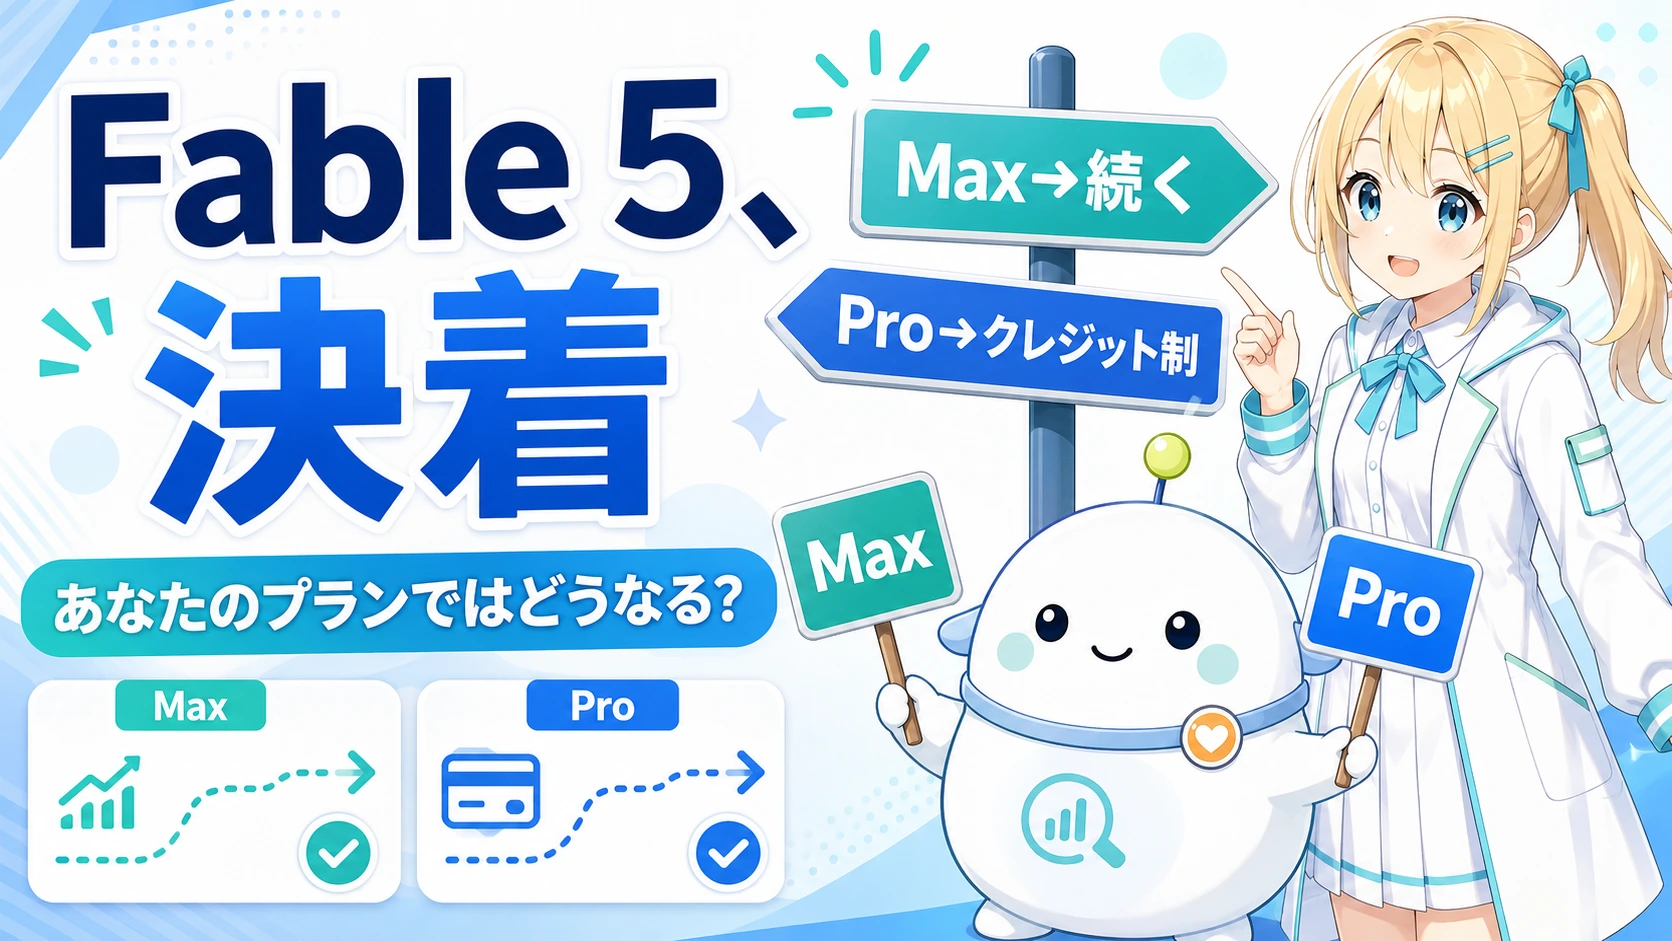
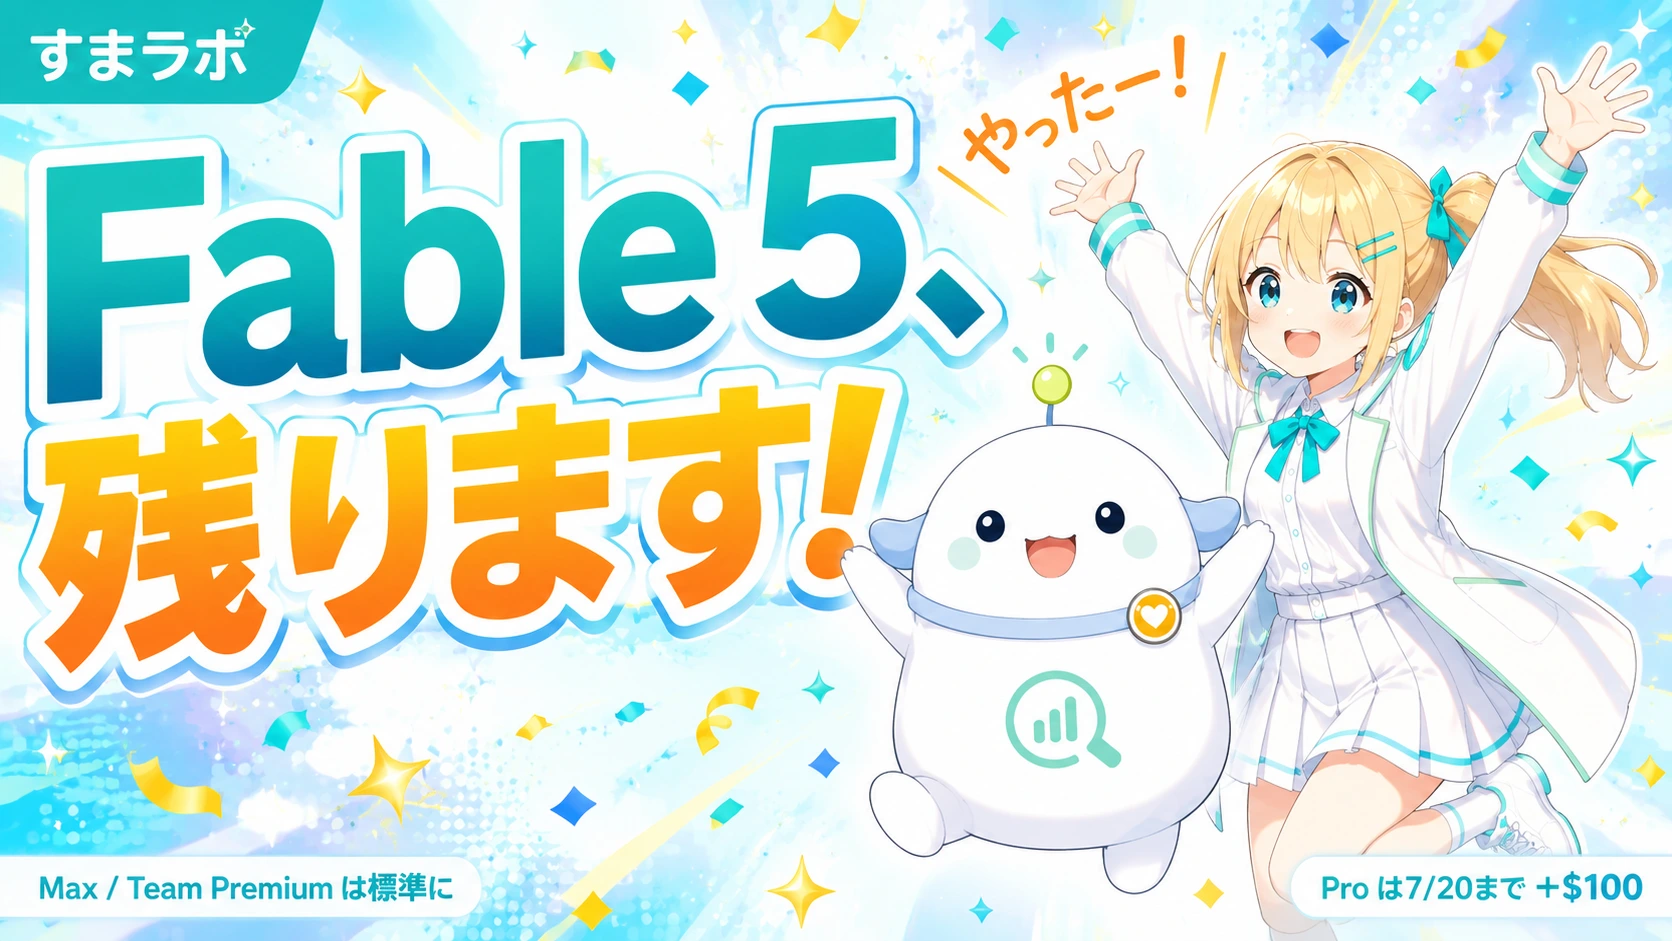
feat(thumbnail+rule): Fable決着記事サムネを喜び爆発型に差し替え＋朗報トーンを恒久ルール化
- サムネ差し替え: 「Fable 5、残ります!」を主役コピーに、ひまり万歳・らぼまる跳ねて喜ぶ喜び爆発型（紙吹雪・キラキラ）。矢印/分岐図を排し感情を主役に。補足は隅に最小限。thumbnailAlt更新
- character-sheet.md: 感情トーン表を4分類化し「朗報・喜び爆発」型を新設（継続決定/無料化/復活/値下げ等は万歳・ジャンプで喜びきる／控えめ笑顔・案内役スタンス禁止）。サムネ主役コピーは「読者の感情の言葉」を第一候補・分岐/矢印はサムネで使わない、を明文化
- factcheck項目12（slide/independent両プロンプト）: 朗報系サムネが案内板・分岐図・無表情説明構図なら warning（改善指摘・needs_revisionにはしない）
- image-workshop: 旧chat 6a5c0f57のセッション級content-policyクールダウンを新chat 6a5c465eへの案A再シードで解消（seed=1）

diff --git a/assets/characters/character-sheet.md b/assets/characters/character-sheet.md
@@ -60,13 +60,18 @@
 
 ### 記事の感情トーンを表情・仕草に反映する ★恒久方針（2026-07-14）
 
-サムネの表情・仕草は、**記事の感情トーン**に合わせる。明るい絵柄を全記事に一律で使わない（終了・障害・値上げの記事で満面の笑みになる事故を防ぐ）。**記事テーマを次の 3 分類のどれかに判定し、対応する表情・仕草をプロンプトに明記する。**
+サムネの表情・仕草は、**記事の感情トーン**に合わせる。明るい絵柄を全記事に一律で使わない（終了・障害・値上げの記事で満面の笑みになる事故を防ぐ）。**記事テーマを次の 4 分類のどれかに判定し、対応する表情・仕草をプロンプトに明記する。**
 
 | 感情トーン | 該当する記事テーマ | ひまりの第一表情 | 仕草・構図 |
 |---|---|---|---|
-| **ポジティブ** | 新機能・復活・延長・無料化・便利になった話 | 明るい・うれしい・ワクワク（従来どおり） | 使ってみる・喜ぶ・指さして紹介する |
+| **朗報・喜び爆発** ★2026-07-19新設 | **読者が確実に得する確定ニュース**：継続決定・存続決定（「残る」「使い続けられる」）・無料化・復活・値下げ・大幅増量・待望の解禁 | **「喜び爆発」を第一表情にする**（満面の笑み＋**両手を上げて万歳／ジャンプ／ガッツポーズ**）。読者の「やったー!」をキャラが代弁して**喜びきる** | **ひまり＝万歳・ジャンプで大喜び／らぼまるも跳ねて一緒に喜ぶ**（案内役に徹しない）。2人で読者の歓喜を体現する。補足情報は隅に小さく、主役は感情 |
+| **ポジティブ（通常）** | 新機能・便利になった話・小さな改善（読者が得する度合いが中〜小） | 明るい・うれしい・ワクワク（従来どおり） | 使ってみる・喜ぶ・指さして紹介する |
 | **ニュートラル** | 解説・比較・基礎知識・仕組みの整理 | 落ち着き・興味・真面目（笑顔は控えめでよい） | 見比べる・整理する・考える |
 | **注意・速報／惜別** | 終了・サービス終了・障害・不具合・値上げ・リコール・脆弱性 | **「驚き」を第一表情にする**（画面いっぱいの「えっ!?」＝目を見開く・のけぞる・PC/スマホを二度見）。読者がニュースを知った瞬間の顔を代弁する | **ひまり＝驚き／らぼまる＝冷静な案内役の「驚き×安心」コントラストを基本構図に**。らぼまるは「◯/◯まで」カレンダーと対処チェックリストを掲げて落ち着いて案内する |
+
+- **朗報・喜び爆発系の第一表情は「喜び爆発」**（2026-07-19新設）。読者にとって明確に嬉しい確定ニュース（残る・使い続けられる・無料化・復活・値下げ）では、**キャラが読者の代わりに全力で喜ぶ**。ひまりは**両手を上げて万歳・ジャンプ・ガッツポーズ＋満面の笑み**、らぼまるも**跳ねて一緒に喜ぶ**。**控えめな笑顔・指さし案内・「整理してあげる」案内役スタンスは禁止**（従来ポジ系が案内図的で弱くなりがちだったのを是正）。「読者が得する確定」であるほど感情の強度を上げる。
+  - **朗報系のコピー原則**：サムネの主役コピーは「情報の要約」ではなく**「読者の感情の言葉」を第一候補にする**（例:「残ります!」「使い続けられる!」「間に合う!」「急いで」「無料になった!」「戻ってきた!」）。事実ラベル（プラン名・日付・金額）は**隅に小さく最小限**に置く。
+  - **分岐図・矢印記号（→）・案内板・比較表はサムネで使わない**（それらは本文スライドに任せる）。サムネは1つの感情に集中させ、情報を詰め込まない。
 
 - **注意・速報／惜別系の第一表情は「驚き」**（2026-07-14 改訂・目を引く方向へ）。真剣・困り顔だけだと弱く、無表情に転びやすいので、まず読者の「えっ!?」を代弁する驚きを主役に置く。そのうえで、らぼまるが冷静に対処を案内する **驚き×安心のコントラスト** で「慌てなくて大丈夫、でも期限までにやろう」を伝える。
 - **文字と感情の強度を 2 段階上げてよい（注意・速報系のみ）**：大きな数字（例「8/9」）を主役級サイズで置く／「終了」の視覚化（シャッターが下りる・フェードするブラウザ枠・カレンダーに赤線 等）を使う／配色も警告寄りのコントラストを許可（赤・オレンジのアクセント可）。ポジ/ニュートラル系はこの強調は使わず従来の清潔トーンを保つ。
